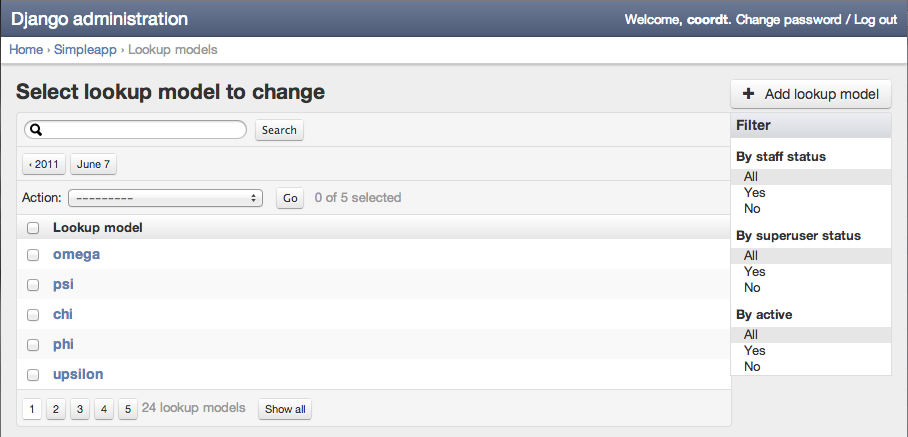
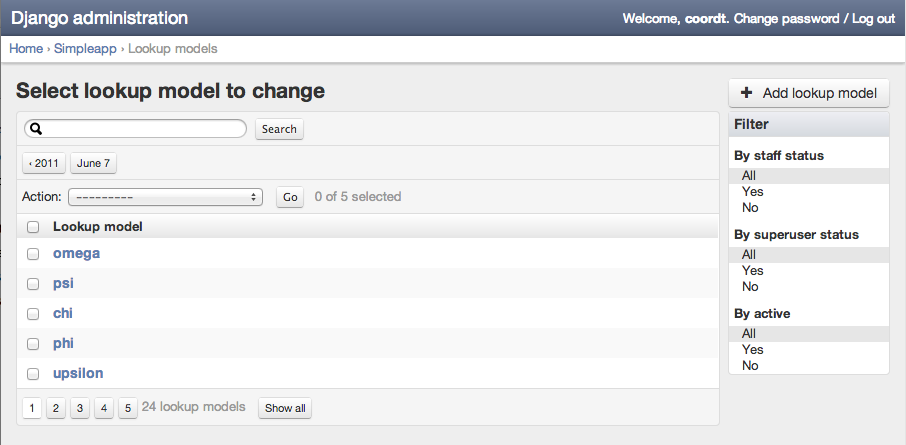
Updated changelist: separated the filter from the list

diff --git a/admintheme/static/admin/css/changelists.css b/admintheme/static/admin/css/changelists.css
@@ -160,8 +160,8 @@ input[type="submit"].default:hover, button.default:hover {
   min-height: 400px;
 }
 /* line 14, ../scss/sass/changelists.scss */
-#changelist.filtered .actions, #changelist.filtered .results, #changelist.filtered .xfull, #changelist.filtered .paginator {
-  margin-right: 160px;
+#changelist.filtered .actions, #changelist.filtered .results, #changelist.filtered .xfull, #changelist.filtered .paginator, #changelist.filtered #toolbar {
+  margin-right: 170px;
 }
 
 /* line 18, ../scss/sass/changelists.scss */
@@ -172,11 +172,11 @@ input[type="submit"].default:hover, button.default:hover {
   z-index: 1000;
   width: 160px;
   border: 1px solid #dddddd;
-  -webkit-border-radius: 0 4px 0 0;
-  -moz-border-radius: 0 4px 0 0;
-  -ms-border-radius: 0 4px 0 0;
-  -o-border-radius: 0 4px 0 0;
-  border-radius: 0 4px 0 0;
+  -webkit-border-radius: 4px;
+  -moz-border-radius: 4px;
+  -ms-border-radius: 4px;
+  -o-border-radius: 4px;
+  border-radius: 4px;
   background: white;
   margin: 0;
 }

diff --git a/admintheme/static/admin/scss/sass/changelists.scss b/admintheme/static/admin/scss/sass/changelists.scss
@@ -11,8 +11,8 @@
 
 #changelist.filtered {
     min-height: 400px;
-    .actions, .results, .xfull, .paginator {
-        margin-right: 160px;
+    .actions, .results, .xfull, .paginator, #toolbar {
+        margin-right: 170px;
     }
 }
 #changelist-filter {
@@ -22,7 +22,7 @@
     z-index: 1000;
     width: 160px;
     border: $table-border;
-    @include border-radius(0 $border-radius 0 0);
+    @include border-radius($border-radius);
     background: $filter-bkgnd;
     margin: 0;
 
